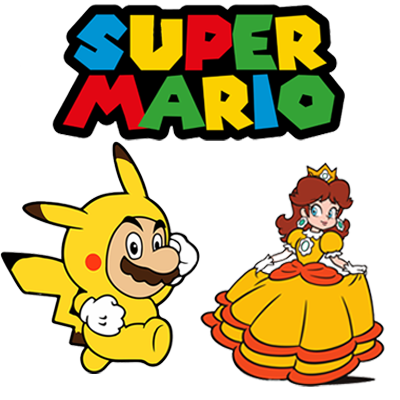
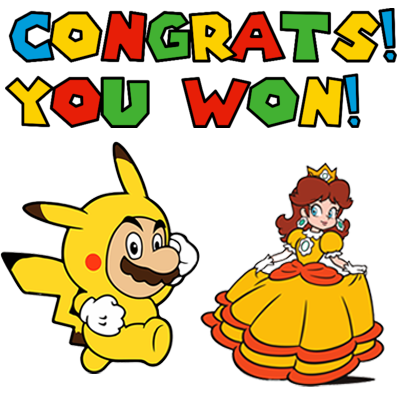
Updated images and javascript code for timer.

Changed region(s): [[0.0, 0.0, 1.0, 0.36]]

diff --git a/fifteen.js b/fifteen.js
@@ -10,6 +10,7 @@ var notify;
 var timer;
 var spaceY;
 var spaceX;
+var source;
 
 
  window.onload = function (){
@@ -101,6 +102,29 @@ var spaceX;
 				}
 			}
 		}
+        var clock = document.getElementById('timer');
+        let time;
+        (function () {
+            var sec = 0;
+            var min = 0;
+            var hr = 0;
+            time = setInterval( () => {
+                var s = sec < 10 ? '0' + sec : sec;
+                var m = m < 10 ? '0' + min + ':': min + ':';
+                var h = h < 10 ? '0' + hr + ':' : hr + ':'; 
+                clock.innerHTML = h + m + s;
+                sec++;
+                if (sec == 60) {
+                    min++;
+                    sec = 0;
+                }
+                if (min == 60) {
+                    hr++;
+                    min = 0;
+                    sec = 0;
+                }
+            }, 1000)
+        })()
 	};
 
 };
@@ -160,6 +184,8 @@ function win() //notifies user that they have won
         var body = document.getElementsByTagName('body');
         body[0].style.backgroundImage= "url('./pikachu-mario.png')";
         notify = 10; //initializes notify variable
+        clearInterval(time);
+        time = null;
         timer= setTimeout(Notify, 200);
         var para=document.getElementsByClassName('explanation');
         para[0].style.visibility="hidden"; //hides text when user is being notified
@@ -277,4 +303,28 @@ function swap (position) //moves the puzzle piece by switching position with an 
         temp = gamePiece[position].style.left;
         gamePiece[position].style.left = spaceX;
         spaceX = temp;
+    }
+
+function changePic(btn)
+    {
+     var id = btn.id;
+     if (id == "mario") {
+        for(let i = 0; i < 15; i++){
+            gamePiece[i].style.backgroundImage = "url(./racoon-mario.png)";
+        }
+        return;
+     }
+     if (id == "wario") {
+        for(let i = 0; i < 15; i++){
+            gamePiece[i].style.backgroundImage = "url(./wario.png)";
+        }
+        return;
+     }
+     if(id == "yoshi") {
+        for(let i = 0; i < 15; i++){
+            gamePiece[i].style.backgroundImage = "url(./yoshi-mario.png)";
+        }
+         return;
+     }
+     return;
     }

diff --git a/fifteen.html b/fifteen.html
@@ -15,6 +15,12 @@
     <p class="center">The goal of the fifteen puzzle is to un-jumble its fifteen squares by repeatedly making moves that slide squares into the empty space. How quickly can you solve it?</p>
     <br>
     <div id="container">
+        <div id="options">
+            <h2>Choose Background</h2>
+            <button class="opt-btn" onclick="changePic(this)" id="mario">Mario</button>
+            <button class="opt-btn" onclick="changePic(this)" id="yoshi">Yoshi</button>
+            <button class="opt-btn" onclick="changePic(this)" id="wario">Wario</button>
+        </div>
         <div id="gameSpace">
             <div>1</div>  
             <div>2</div>
@@ -33,7 +39,12 @@
             <div>15</div>
         </div>
         <div id="controls">
+            <p id="timer"></p>
 			<button id="shufflebutton">Shuffle</button>
+            <br>
+            <audio controls>
+                <source src="" type="">
+            </audio>
         </div>
     </div>
 
